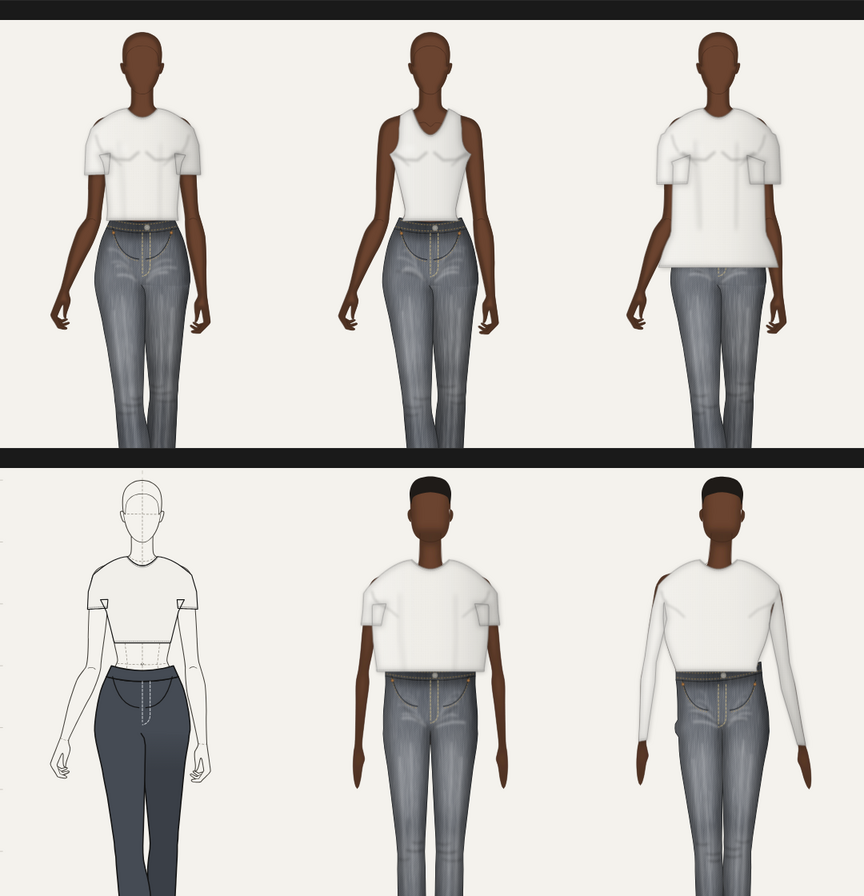
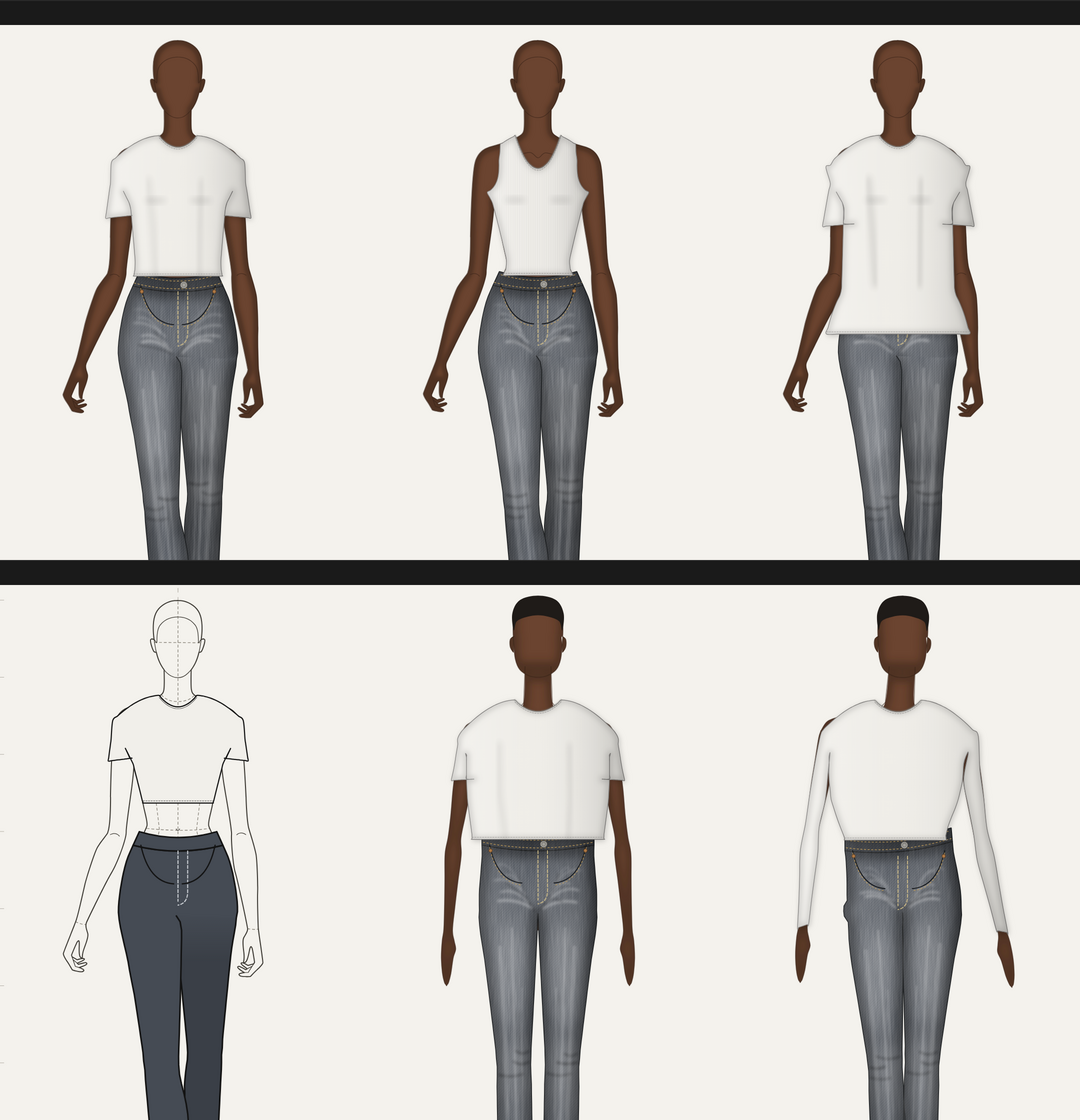
Clean up tops: no stray fold lines, sleeves hug the arm
Removed the drawn fold marks at the shoulders and the bust and underarm
lines. Sleeves are narrower, start snug on the arm and open toward the
hem, their inner edge stays on the side seam where the arm hangs over the
body, and the outline is smoothed.

Claude-Session: https://claude.ai/code/session_01N4gmdzgjq2mCxibreUu9UH

diff --git a/src/model/top.ts b/src/model/top.ts
@@ -30,9 +30,9 @@ const armPt = (side: 'armL' | 'armR', a: number, o: number, key?: string): Pt =>
 export const uv = (p: { x: number; y: number }) => ({ u: (p.x - 150) / 100, v: (p.y - 100) / 200 });
 
 const EASE: Record<TopFit, { body: number; waist: number; sleeve: number; shoulder: number; drop: number }> = {
-  Fitted: { body: 1.04, waist: 1.0, sleeve: 1.12, shoulder: 0.98, drop: 0 },
-  Regular: { body: 1.12, waist: 1.12, sleeve: 1.4, shoulder: 1.02, drop: 0.04 },
-  Oversized: { body: 1.32, waist: 1.36, sleeve: 1.85, shoulder: 1.2, drop: 0.16 },
+  Fitted: { body: 1.04, waist: 1.0, sleeve: 1.1, shoulder: 1.04, drop: 0 },
+  Regular: { body: 1.1, waist: 1.1, sleeve: 1.26, shoulder: 1.07, drop: 0.03 },
+  Oversized: { body: 1.26, waist: 1.3, sleeve: 1.55, shoulder: 1.2, drop: 0.12 },
 };
 const LENGTH_V: Record<TopLength, number> = { Crop: 0.8, Waist: 1.04, Hip: 1.42, Long: 1.7 };
 const NECK_V: Record<NeckKind, number> = { Crew: 0.07, Scoop: 0.17, V: 0.27 };
@@ -51,9 +51,10 @@ export function buildTopPoints(o: TopOpts): Pt[] {
       out.push(torsoPt(s * e.body, 0.36, `arm${k}`));
     } else {
       const sleeveLen = o.block === 'Long sleeve' ? 2.02 : o.fit === 'Fitted' && o.length === 'Crop' ? 0.3 : 0.44;
-      out.push(torsoPt(s * e.shoulder, 0.0, `sh${k}`));
-      out.push(armPt(arm, sleeveLen + e.drop, -e.sleeve, `slO${k}`));
-      out.push(armPt(arm, sleeveLen + e.drop - 0.03, e.sleeve, `slI${k}`));
+      out.push(torsoPt(s * e.shoulder, -0.015, `sh${k}`));
+      // sleeves open out a little toward the hem
+      out.push(armPt(arm, sleeveLen + e.drop, -(e.sleeve + 0.14), `slO${k}`));
+      out.push(armPt(arm, sleeveLen + e.drop - 0.05, e.sleeve + 0.06, `slI${k}`));
       out.push(torsoPt(s * e.body, 0.32 + e.drop, `arm${k}`));
     }
     out.push(torsoPt(s * (o.length === 'Crop' && !o.tuck ? e.body * 0.97 : e.waist), Math.min(1, len - 0.02), `side${k}`));
@@ -259,9 +260,14 @@ export function topShape(t: TorsoProfile, points: Pt[], stiff = 0): TopShape {
       const tp = a.r ? b : a, ap = a.r ? a : b;
       const start = topInverse(t, F(tp), arm, stiff);
       const runA = Math.max(0.04, Math.min(start.x / 100, 0.14));
-      const o = (ap.y - 100) / 100;
+      // the cap hugs the arm (outer side from the shoulder, inner side from the underarm) and eases out to the hem
+      const oHem = (ap.y - 100) / 100;
+      const oCap = /^sh/.test(key(tp)) ? -1.04 : 0.8;
       const mid: Pt[] = [];
-      for (let k = 1; k <= 6; k++) mid.push({ x: (runA + ((ap.x / 100 - runA) * k) / 7) * 100, y: 100 + o * 100, r: arm });
+      for (let k = 1; k <= 6; k++) {
+        const f = k / 7;
+        mid.push({ x: (runA + (ap.x / 100 - runA) * f) * 100, y: 100 + (oCap + (oHem - oCap) * f) * 100, r: arm });
+      }
       if (a.r) mid.reverse();
       steps.push(...mid);
     }
@@ -272,6 +278,29 @@ export function topShape(t: TorsoProfile, points: Pt[], stiff = 0): TopShape {
     if (key(a) === 'hemL' && key(b) === 'hemR') hems.push([F(a), ...steps.map(F), F(b)]);
     if (a.r === 'armL' || b.r === 'armL') sleeveRun.L.push(F(a), ...steps.map(F));
     if (a.r === 'armR' || b.r === 'armR') sleeveRun.R.push(F(a), ...steps.map(F));
+  }
+  // where an arm hangs over the body, keep the sleeve's inner edge on the body's side seam
+  // instead of drawing a seam line across the front
+  const ease = (k: string) => Math.abs(uv(points.find((p) => p.key === k) ?? torsoPt(1, 0)).u);
+  const eL = ease('armL'), eR = ease('armR');
+  let j = 0;
+  for (let i = 0; i < n; i++) {
+    if (i === iNF) continue;
+    const a = points[i];
+    const start = index[i];
+    const end = i + 1 < n && i + 1 !== iNF ? index[i + 1] : outline.length;
+    const b = points[(i + 1) % n];
+    const inner = (/^slI/.test(key(a)) && /^arm/.test(key(b))) || (/^arm/.test(key(a)) && /^slI/.test(key(b)));
+    if (inner) {
+      // the run between the sleeve's inner hem and the underarm
+      const side = (a.r ?? b.r) as 'armL' | 'armR';
+      for (j = start; j <= Math.min(end, outline.length - 1); j++) {
+        const p = outline[j];
+        const { c, h } = halfAt(t, p.y, stiff);
+        if (side === 'armL') outline[j] = { x: Math.min(p.x, c - h * eL), y: p.y };
+        else outline[j] = { x: Math.max(p.x, c + h * eR), y: p.y };
+      }
+    }
   }
   const sleeves = [sleeveRun.L, sleeveRun.R].filter((x) => x.length > 2);
   return { outline, index, neckline, hems, sleeves };

diff --git a/src/components/TopView.tsx b/src/components/TopView.tsx
@@ -1,6 +1,6 @@
 import { memo } from 'react';
 import { WASHES, isDarkWash, type Garment } from '../model/garment';
-import type { TorsoProfile, Vec } from '../model/figure';
+import { smooth, type TorsoProfile, type Vec } from '../model/figure';
 import { stiffOf, topForward, topShape, torsoPt } from '../model/top';
 import { mix } from '../model/color';
 import { polyPath, ripPoly, ripThreads, wornPatch } from '../model/rips';
@@ -24,7 +24,7 @@ interface Props {
 export const TopView = memo(function TopView({ g, t, rendered, shading, selectedText, bust }: Props) {
   const stiff = stiffOf(g.top);
   const shape = topShape(t, g.points, stiff);
-  const body = line(shape.outline, true);
+  const body = smooth(shape.outline, true);
   const base = WASHES[g.wash];
   const dark = isDarkWash(g.wash);
   const outline = rendered ? mix(base, '#000000', dark ? 0.55 : 0.45) : '#141414';
@@ -74,22 +74,14 @@ export const TopView = memo(function TopView({ g, t, rendered, shading, selected
           <g clipPath={`url(#${clip})`} pointerEvents="none">
             <rect x={0} y={0} width={600} height={1000} fill={`url(#tl-${uid})`} />
             <path d={body} fill="none" stroke="#000" strokeWidth={7} opacity={dark ? 0.36 : 0.16} filter={`url(#tb-${uid})`} style={{ mixBlendMode: 'multiply' }} />
-            {/* fold where the sleeve meets the body */}
-            <g fill="none" stroke="#000" strokeWidth={3} opacity={dark ? 0.3 : 0.16} filter={`url(#ts-${uid})`}>
-              <path d={line([F(-0.98, 0.1), F(-1.02, 0.22), F(-1.0, 0.34)])} />
-              <path d={line([F(0.98, 0.1), F(1.02, 0.22), F(1.0, 0.34)])} />
-            </g>
             {bust && (
-              <g fill="none" stroke="#000" strokeWidth={4} opacity={dark ? 0.3 : 0.18} filter={`url(#ts-${uid})`}>
-                <path d={line([F(-0.92, 0.36), F(-0.7, 0.46), F(-0.35, 0.47), F(-0.08, 0.39)])} />
-                <path d={line([F(0.08, 0.39), F(0.35, 0.47), F(0.7, 0.46), F(0.92, 0.36)])} />
+              <g fill="#000" opacity={dark ? 0.18 : 0.08} filter={`url(#tb-${uid})`}>
+                <ellipse cx={F(-0.5, 0.47).x} cy={F(-0.5, 0.47).y} rx={14} ry={5} />
+                <ellipse cx={F(0.5, 0.47).x} cy={F(0.5, 0.47).y} rx={14} ry={5} />
               </g>
             )}
-            {bust && <ellipse cx={F(-0.5, 0.36).x} cy={F(-0.5, 0.36).y} rx={9} ry={7} fill="#fff" opacity={dark ? 0.12 : 0.3} filter={`url(#tb-${uid})`} />}
             {/* tension folds from the underarm, and drape on looser fits */}
             <g fill="none" stroke="#000" strokeLinecap="round" opacity={dark ? 0.32 : 0.2} filter={`url(#ts-${uid})`}>
-              <path d={line([F(-1.0, 0.36), F(-0.78, 0.45), F(-0.62, 0.52)])} strokeWidth={2} />
-              <path d={line([F(1.0, 0.36), F(0.78, 0.45), F(0.62, 0.52)])} strokeWidth={2} />
               {loose > 0 && (
                 <>
                   <path d={line([F(-0.55, 0.3), F(-0.6, 0.7), F(-0.52, 1.1)])} strokeWidth={5 + loose * 4} opacity={0.25 + loose * 0.25} filter={`url(#tb-${uid})`} />
@@ -104,7 +96,7 @@ export const TopView = memo(function TopView({ g, t, rendered, shading, selected
         <g fill="none" pointerEvents="none" strokeLinecap="round">
           <path d={line(shape.neckline)} stroke={outline} strokeWidth={rendered ? 3.2 : 1.2} opacity={rendered ? 0.22 : 1} />
           <path d={line(shape.neckline)} stroke={outline} strokeWidth={0.7} strokeDasharray={rendered ? '2 1.4' : undefined} transform="translate(0 2.6)" opacity={0.7} />
-          {shape.hems.map((h, i) => (
+          {shape.hems.filter((h) => h.length > 2).map((h, i) => (
             <path key={i} d={line(h)} stroke={outline} strokeWidth={0.7} strokeDasharray="2 1.4" transform={`translate(0 ${-2.8})`} opacity={0.65} />
           ))}
         </g>
